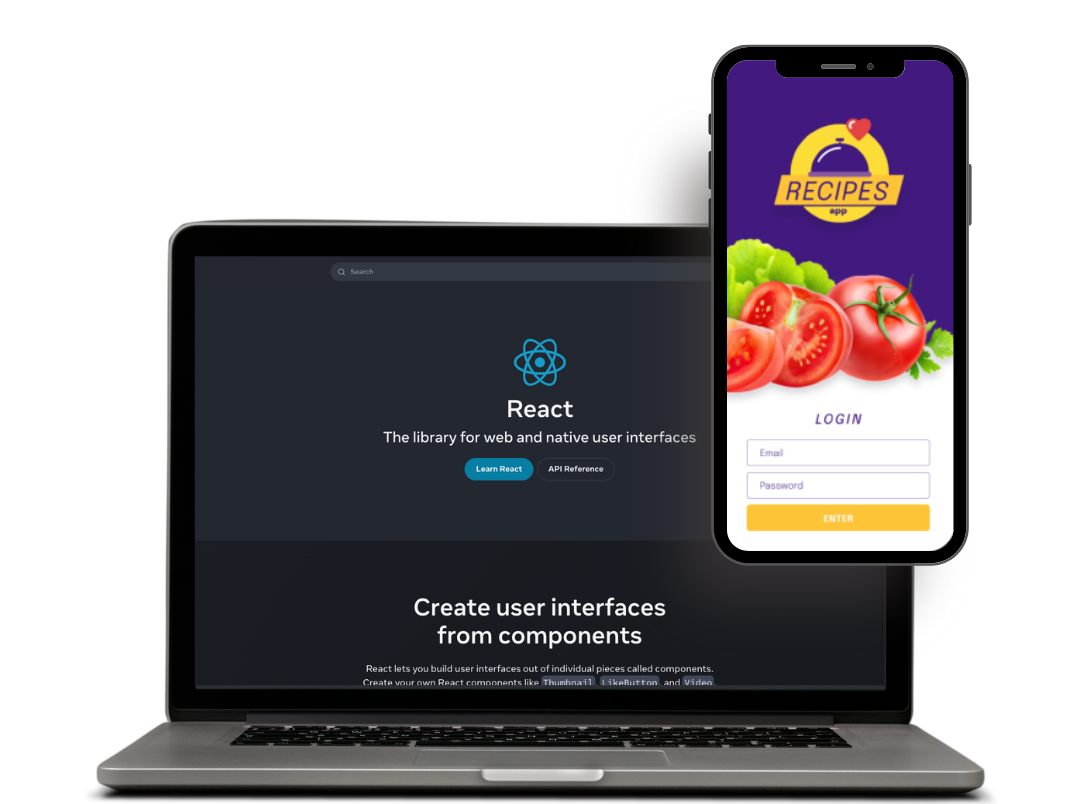
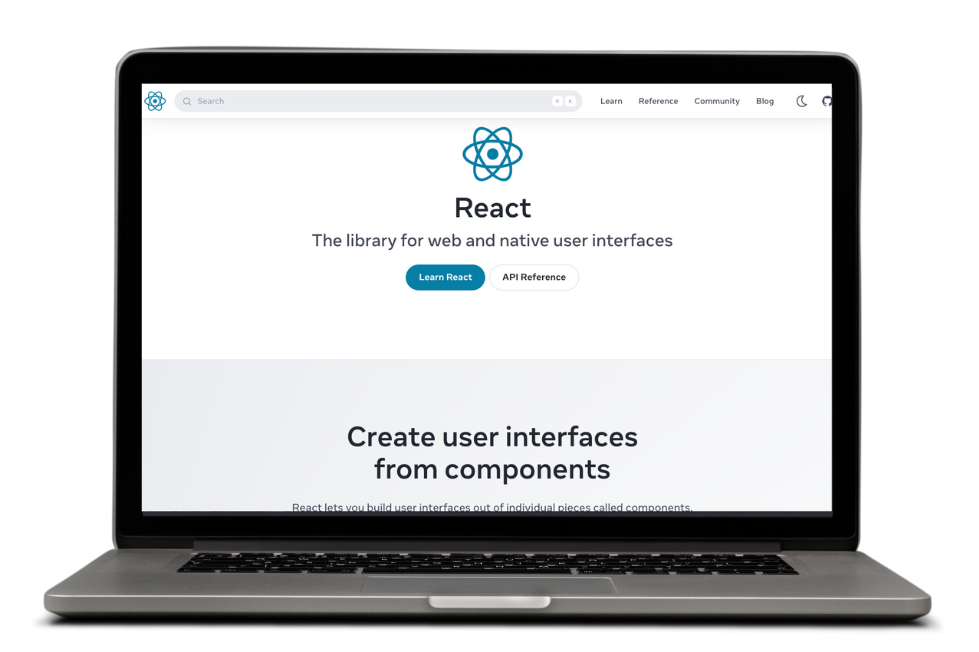
fix(style): hero buttons

diff --git a/src/assets/css/main.css b/src/assets/css/main.css
@@ -1627,8 +1627,8 @@ ul,ol {
 }
 
 .header .button .btn {
-  background-color: transparent;
-  border: 2px solid #fff;
+  /* background-color: transparent; */
+  /* border: 2px solid #fff; */
   color: #fff;
   padding: 12px 30px
 }
@@ -2049,9 +2049,9 @@ ul,ol {
 }
 
 .hero-area .hero-content .button .btn {
-  background-color: #fff;
-  color: #1DB700;
-  margin-right: 12px
+  /* background-color: #fff; */
+  /* color: #1DB700; */
+  /* margin-right: 12px */
 }
 
 .hero-area .hero-content .button .btn i {

diff --git a/src/components/Sections/Welcome/index.tsx b/src/components/Sections/Welcome/index.tsx
@@ -1,4 +1,3 @@
-import phone from '../../../assets/images/hero/phone.png';
 import mockup from '../../../assets/images/hero/mockup-front.png';
 
 function Welcome() {
@@ -14,7 +13,7 @@ function Welcome() {
             >
               Boas-vindas ao módulo mais
               {' '}
-              <strong>estiloso</strong>
+              <strong style={ { color: '#1DB700' } }>estiloso</strong>
               {' '}
               da Trybe.
             </p>

diff --git a/src/components/Header/index.tsx b/src/components/Header/index.tsx
@@ -148,6 +148,7 @@ function Header({ currentSection }: { currentSection: string }) {
                     target="_blank"
                     rel="noreferrer"
                   >
+                    <i className="lni lni-rocket" />
                     Começar estudos
                   </a>
                 </div>
